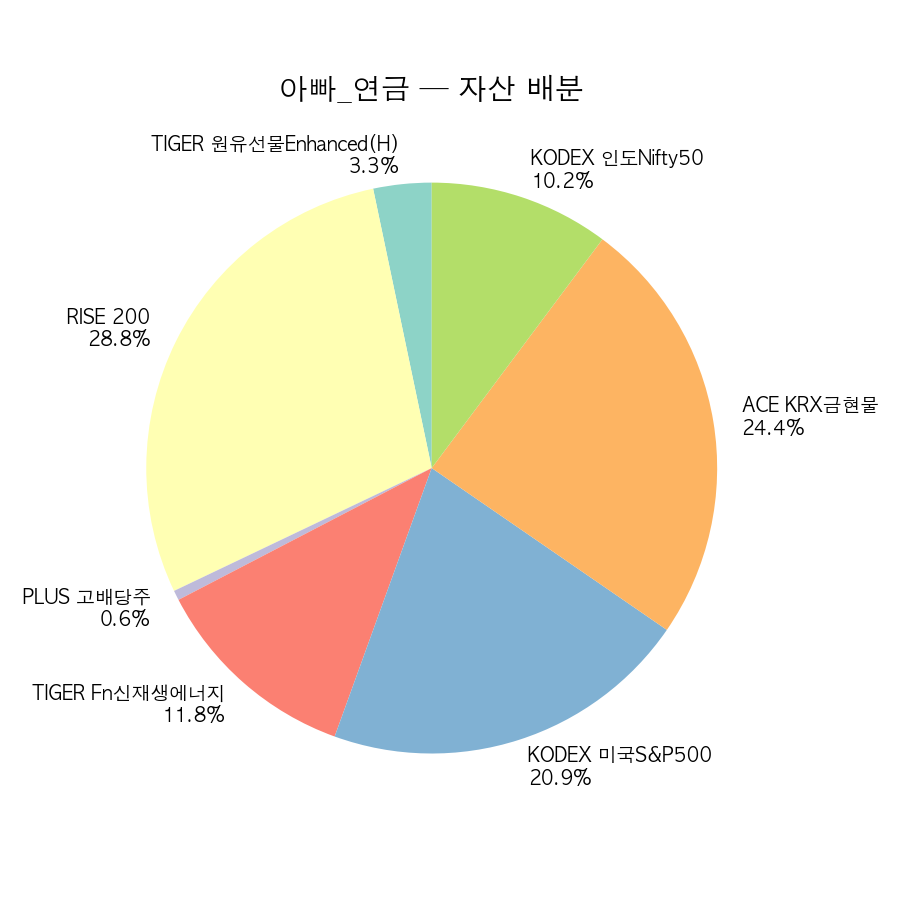
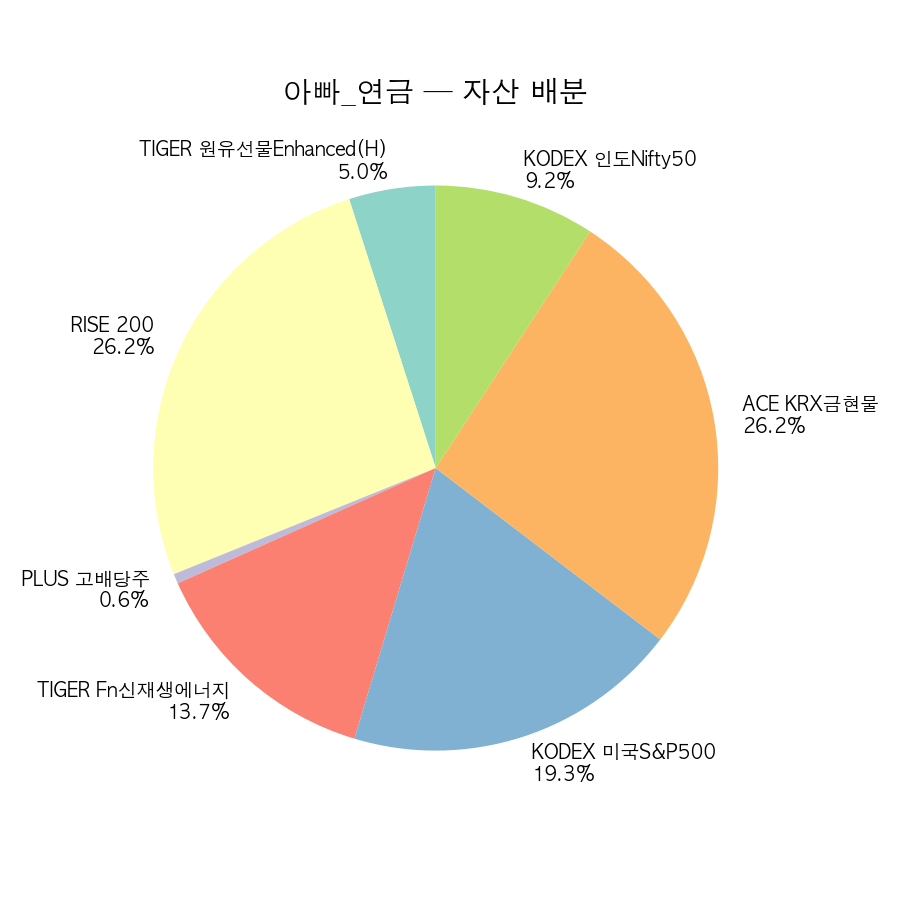
섹션별 주간 리포트 (자동 생성)

diff --git a/_posts/2026-07-10-etf-weekly-week14.md b/_posts/2026-07-10-etf-weekly-week14.md
@@ -1,0 +1,50 @@
+---
+layout: post
+title: "Week 14 — 부모님 연금 ETF 주간 리포트"
+date: 2026-07-10
+categories: [investing, etf]
+tags: [weekly]
+---
+
+> 부모님 연금저축 ETF 실험 — 14주차 기록.
+
+---
+
+## 14주차 성과
+
+### 엄마_연금
+
+| 종목 | 수량 | 평단가 | 종가 | 평가액 | 수익률 |
+|------|------|--------|------|--------|--------|
+| RISE 200 | 9주 | ₩80,163 | ₩133,950 | ₩1,205,550 | +67.1% |
+| ACE KRX금현물 | 42주 | ₩30,882 | ₩28,665 | ₩1,203,930 | -7.2% |
+| KODEX 미국S&P500 | 34주 | ₩22,947 | ₩26,070 | ₩886,380 | +13.6% |
+| TIGER Fn신재생에너지 | 24주 | ₩28,056 | ₩26,190 | ₩628,560 | -6.7% |
+| KODEX 인도Nifty50 | 32주 | ₩12,525 | ₩13,235 | ₩423,520 | +5.7% |
+| TIGER 원유선물Enhanced(H) | 41주 | ₩6,413 | ₩5,560 | ₩227,960 | -13.3% |
+
+**투자 ₩4,135,767 → 평가 ₩4,575,900 | +440,133원 (+10.6%)**
+
+예수금: ₩2,475,958
+---
+
+### 아빠_연금
+
+| 종목 | 수량 | 평단가 | 종가 | 평가액 | 수익률 |
+|------|------|--------|------|--------|--------|
+| RISE 200 | 9주 | ₩80,165 | ₩133,775 | ₩1,203,975 | +66.9% |
+| ACE KRX금현물 | 42주 | ₩30,883 | ₩28,665 | ₩1,203,930 | -7.2% |
+| KODEX 미국S&P500 | 34주 | ₩22,945 | ₩26,070 | ₩886,380 | +13.6% |
+| TIGER Fn신재생에너지 | 24주 | ₩28,048 | ₩26,190 | ₩628,560 | -6.6% |
+| KODEX 인도Nifty50 | 32주 | ₩12,535 | ₩13,230 | ₩423,360 | +5.5% |
+| TIGER 원유선물Enhanced(H) | 41주 | ₩6,405 | ₩5,560 | ₩227,960 | -13.2% |
+| PLUS 고배당주 | 1주 | ₩25,370 | ₩25,735 | ₩25,735 | +1.4% |
+
+**투자 ₩4,160,932 → 평가 ₩4,599,900 | +438,968원 (+10.5%)**
+
+예수금: ₩1,861,134
+
+
+---
+
+*데이터: 한국투자증권 KIS Open API / 2026-07-10 장 마감 기준*

diff --git a/_posts/2026-07-10-dividend-weekly-week14.md b/_posts/2026-07-10-dividend-weekly-week14.md
@@ -1,0 +1,36 @@
+---
+layout: post
+title: "Week 14 — ISA 배당 포트 주간 리포트"
+date: 2026-07-10
+categories: [investing, dividend]
+tags: [weekly]
+---
+
+> ISA 배당 포트폴리오 — 14주차 기록.
+
+---
+
+## 14주차 성과
+
+### 한투_ISA
+
+| 종목 | 수량 | 평단가 | 종가 | 평가액 | 수익률 |
+|------|------|--------|------|--------|--------|
+| 삼성화재우 | 5주 | ₩374,400 | ₩414,500 | ₩2,072,500 | +10.7% |
+| KT&G | 10주 | ₩168,190 | ₩174,300 | ₩1,743,000 | +3.6% |
+| KODEX 고배당주 | 94주 | ₩18,052 | ₩17,890 | ₩1,681,660 | -0.9% |
+| 고려신용정보 | 175주 | ₩10,209 | ₩9,540 | ₩1,669,500 | -6.5% |
+| 빙그레 | 25주 | ₩73,386 | ₩66,400 | ₩1,660,000 | -9.5% |
+
+**투자 ₩8,872,110 → 평가 ₩8,826,660 | -45,450원 (-0.5%)**
+
+예수금: ₩500,674
+
+**이번 주 배당 입금:**
+
+- 2026-07-06 배당금: ₩443,016
+
+
+---
+
+*데이터: 한국투자증권 KIS Open API / 2026-07-10 장 마감 기준*
